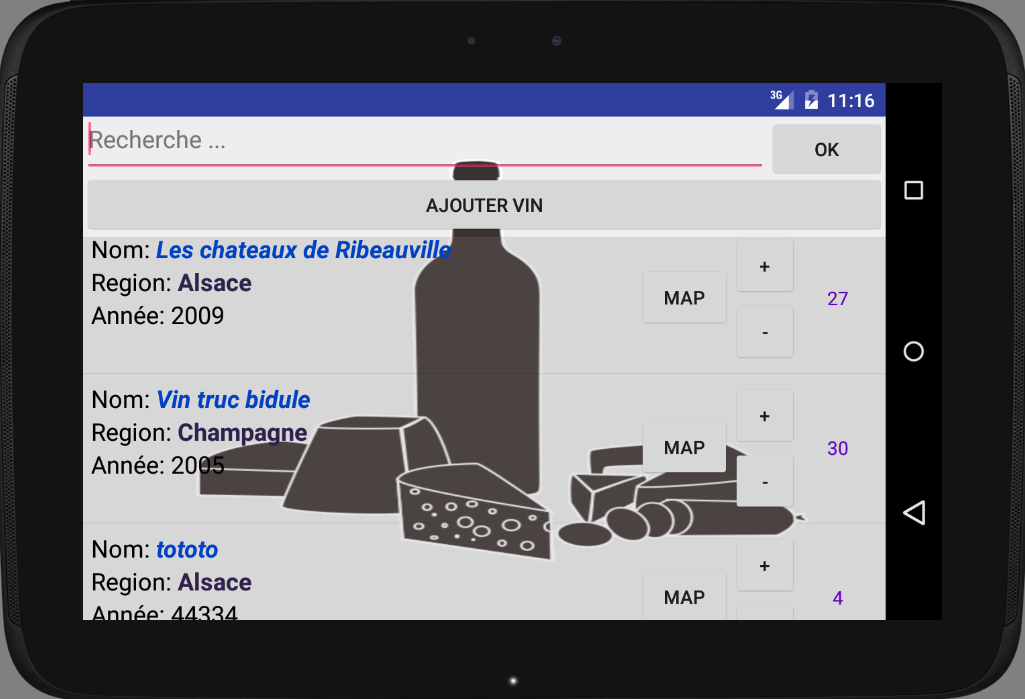
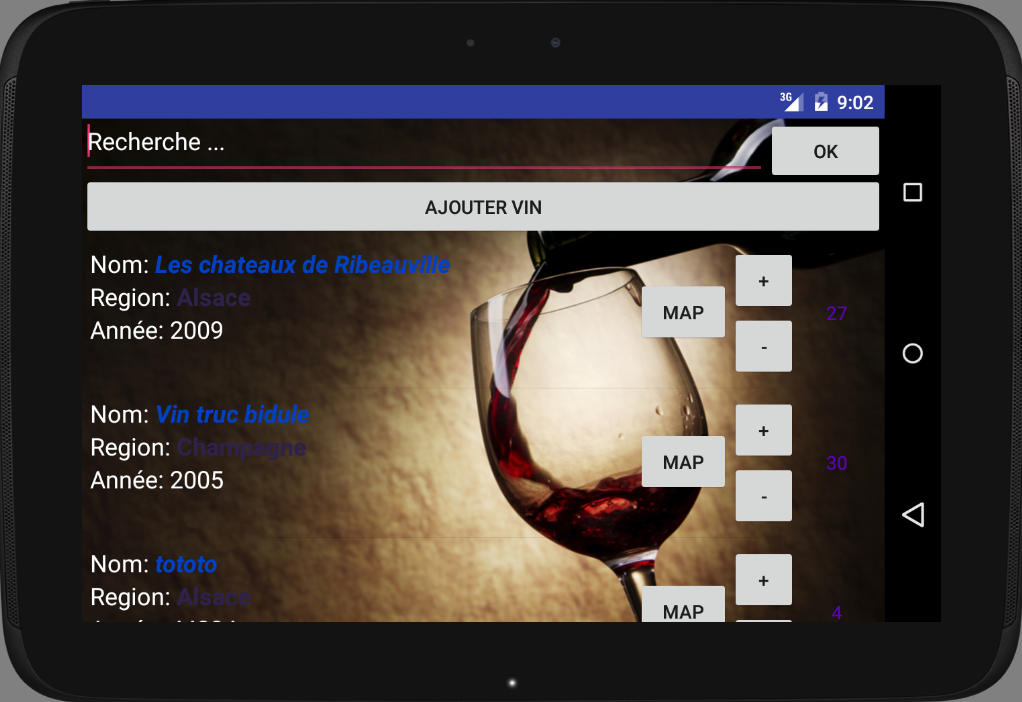
change font and background and quantity sup 0

diff --git a/app/src/main/java/istic/fr/cavevin/MainActivity.java b/app/src/main/java/istic/fr/cavevin/MainActivity.java
@@ -45,6 +45,10 @@ public class MainActivity extends Activity implements
     }
 
 
+    /**
+     * Add wine to an other activity
+     * @param v
+     */
     public void addWine(View v){
         Intent regionEdit = new Intent(getBaseContext(), WineEdit.class);
         Bundle bundle = new Bundle();
@@ -53,6 +57,10 @@ public class MainActivity extends Activity implements
         startActivity(regionEdit);
     }
 
+    /**
+     * Increase quantity of wine
+     * @param v
+     */
     public void addQuantity(View v){
 
         View parentRow = (View) v.getParent();
@@ -66,13 +74,6 @@ public class MainActivity extends Activity implements
         String rowId =
                 cursor.getString(cursor.getColumnIndexOrThrow(WinesDb.KEY_ROWID));
 
-
-        /*String searchQuery = "column1 like '%" + searchKey
-                + "%' or column2 like '%" + searchKey + "%'";
-
-
-        ContentResolver c = getContentResolver().query(uri, null, searchQuery, null,
-                "date DESC");*/
 
         String data = "_id = '%" + rowId + "%'";
 
@@ -93,14 +94,21 @@ public class MainActivity extends Activity implements
 
             View vv = listView.getChildAt(position);
 
+
             TextView tt = (TextView)vv.findViewById(R.id.quantity);
+
             tt.setText(Integer.toString(quantity + 1));
+
 
         }
 
 
     }
 
+    /**
+     * Decrease quantity of wine
+     * @param v
+     */
     public void subQuantity(View v){
 
         View parentRow = (View) v.getParent();
@@ -115,25 +123,22 @@ public class MainActivity extends Activity implements
                 cursor.getString(cursor.getColumnIndexOrThrow(WinesDb.KEY_ROWID));
 
 
-        /*String searchQuery = "column1 like '%" + searchKey
-                + "%' or column2 like '%" + searchKey + "%'";
-
-
-        ContentResolver c = getContentResolver().query(uri, null, searchQuery, null,
-                "date DESC");*/
-
         String data = "_id = '%" + rowId + "%'";
 
         Uri uri = Uri.parse(MyContentProvider.CONTENT_URI + "/" + rowId);
 
 
-        Cursor c = getContentResolver().query(uri, null, data, null,null);
-
-        Integer quantity =
-                cursor.getInt(c.getColumnIndexOrThrow(WinesDb.KEY_QUANTITY));
+        Cursor c = getContentResolver().query(uri, null, data, null, null);
 
 
-        if(quantity!=null){
+        Integer quantity =null;
+
+
+                    quantity = cursor.getInt(c.getColumnIndexOrThrow(WinesDb.KEY_QUANTITY));
+
+
+
+        if(quantity!=null && quantity>0){
             ContentValues values = new ContentValues();
             values.put(WinesDb.KEY_QUANTITY, quantity - 1);
 
@@ -149,6 +154,10 @@ public class MainActivity extends Activity implements
     }
 
 
+    /**
+     * Display map location
+     * @param v
+     */
     public void showMap(View v){
         Intent intent = new Intent(this,MapsActivity.class);
         View parentRow = (View) v.getParent();
@@ -177,8 +186,6 @@ public class MainActivity extends Activity implements
 
 
         Cursor cursor = getContentResolver().query(uri, null, searchQuery, null, null);
-
-
 
 
 

diff --git a/app/src/main/java/istic/fr/cavevin/WineEdit.java b/app/src/main/java/istic/fr/cavevin/WineEdit.java
@@ -83,6 +83,7 @@ public class WineEdit extends Activity implements View.OnClickListener {
         View parentRow = (View) v.getParent();
 
 
+        name = name.replace("'","''");
 
         String searchQuery = "name ='"+name+"'"+" and "+ "year ='" + year + "'";
 
@@ -137,6 +138,10 @@ public class WineEdit extends Activity implements View.OnClickListener {
         if(myYear.trim().equalsIgnoreCase("")){
             Toast.makeText(getBaseContext(), "ENTRER l'année du vin", Toast.LENGTH_LONG).show();
             return;
+        }
+
+        if(myQuantity.trim().equalsIgnoreCase("")){
+            myQuantity="0";
         }
 
         System.out.println(mode);

diff --git a/app/src/main/java/istic/fr/cavevin/MyDatabaseHelper.java b/app/src/main/java/istic/fr/cavevin/MyDatabaseHelper.java
@@ -6,7 +6,7 @@ import android.database.sqlite.SQLiteOpenHelper;
 
 public class MyDatabaseHelper extends SQLiteOpenHelper {
 
-    private static final String DATABASE_NAME = "TheWorld";
+    private static final String DATABASE_NAME = "TheWorld2";
     private static final int DATABASE_VERSION = 1;
 
     MyDatabaseHelper(Context context) {
